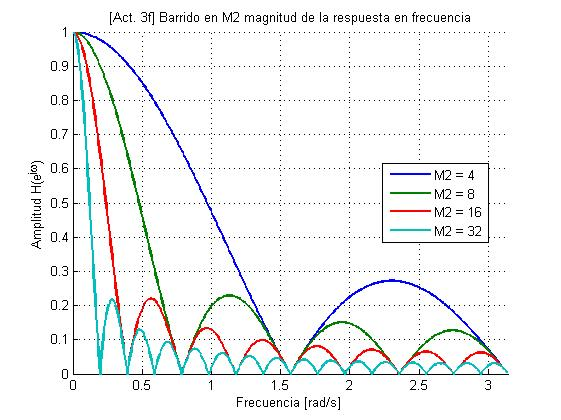
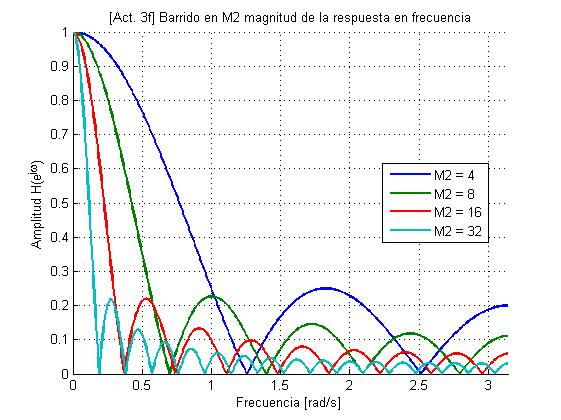
tp1 eje3

diff --git a/tp1/act3.m b/tp1/act3.m
@@ -72,7 +72,8 @@ hold all; %asi se logra q se mantengan graf y cambien color
 
 % Iterar sobre diferentes valores de M2
 for M2 = [4, 8, 16, 32]
-    h_v = 1/M2.*ones(M2,1); %ones crea matris M2x1 de valor 1 
+    h_v = 1/(M2+1).*ones(M2+1,1); %ones crea matris (M2+1)x1 de valor 1
+    %h_v = 1/M2.*ones(M2,1); %ver si no es asi
     % Respuesta al impulso
     H = fft(h_v, POINTS);
     % Respuesta en frecuencia utilizando FFT
